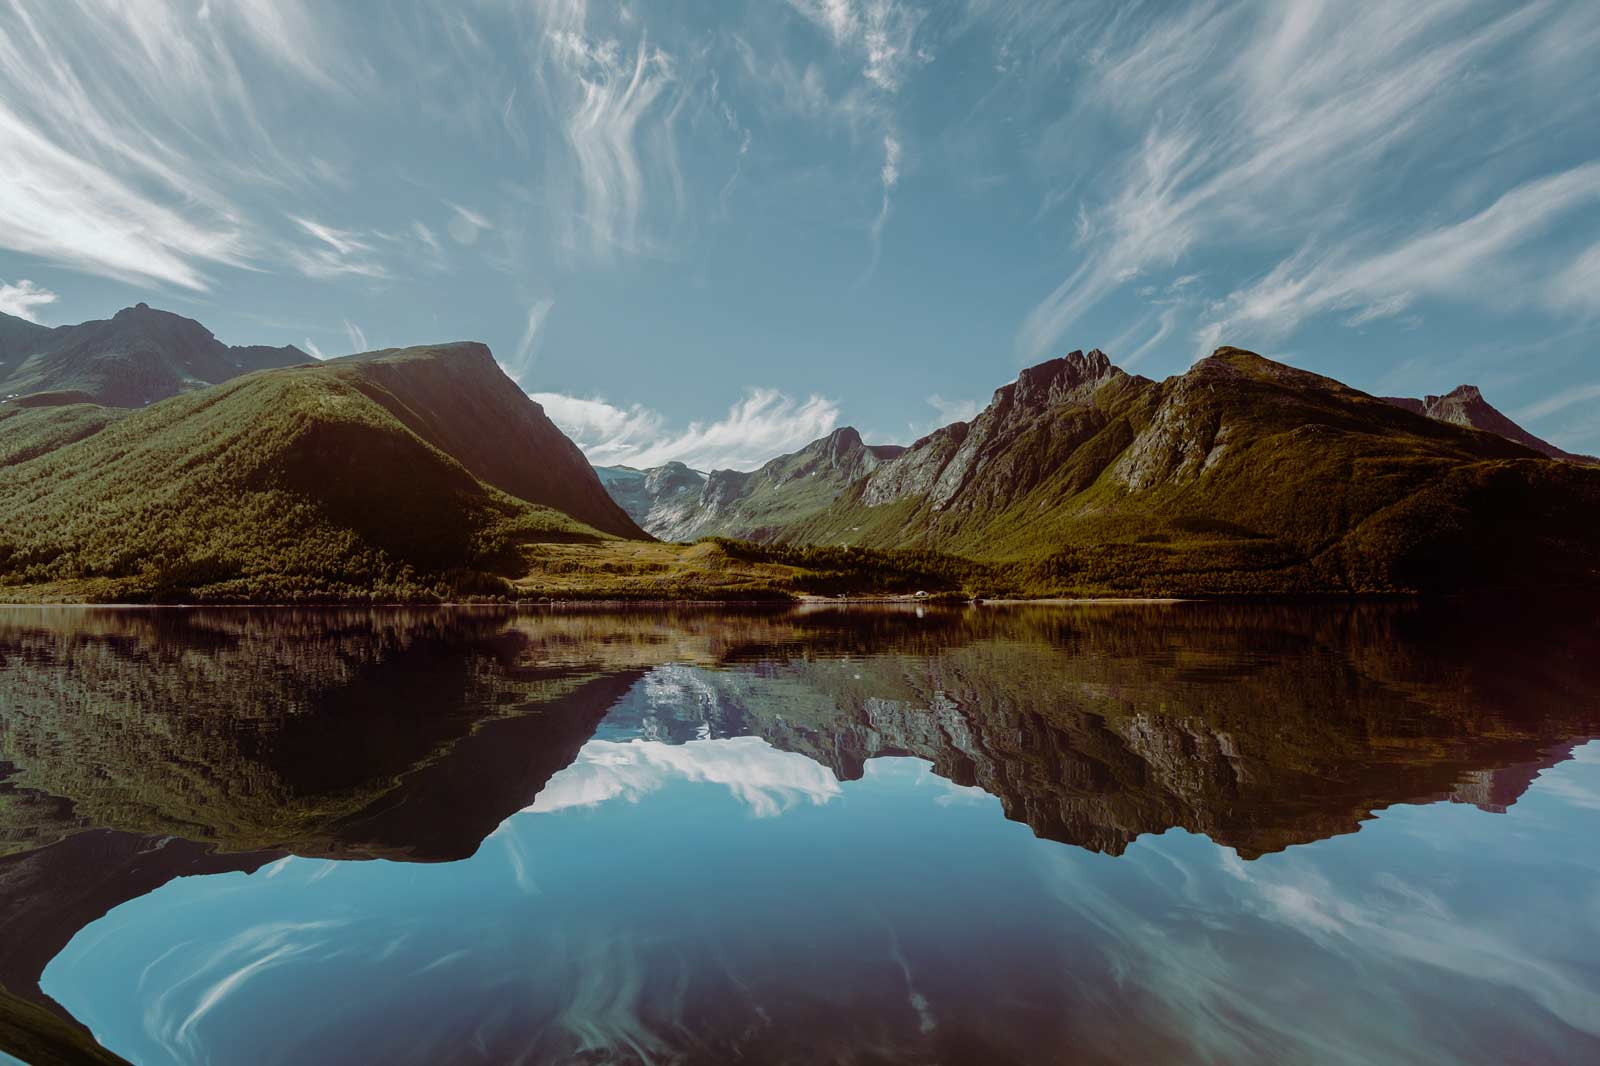
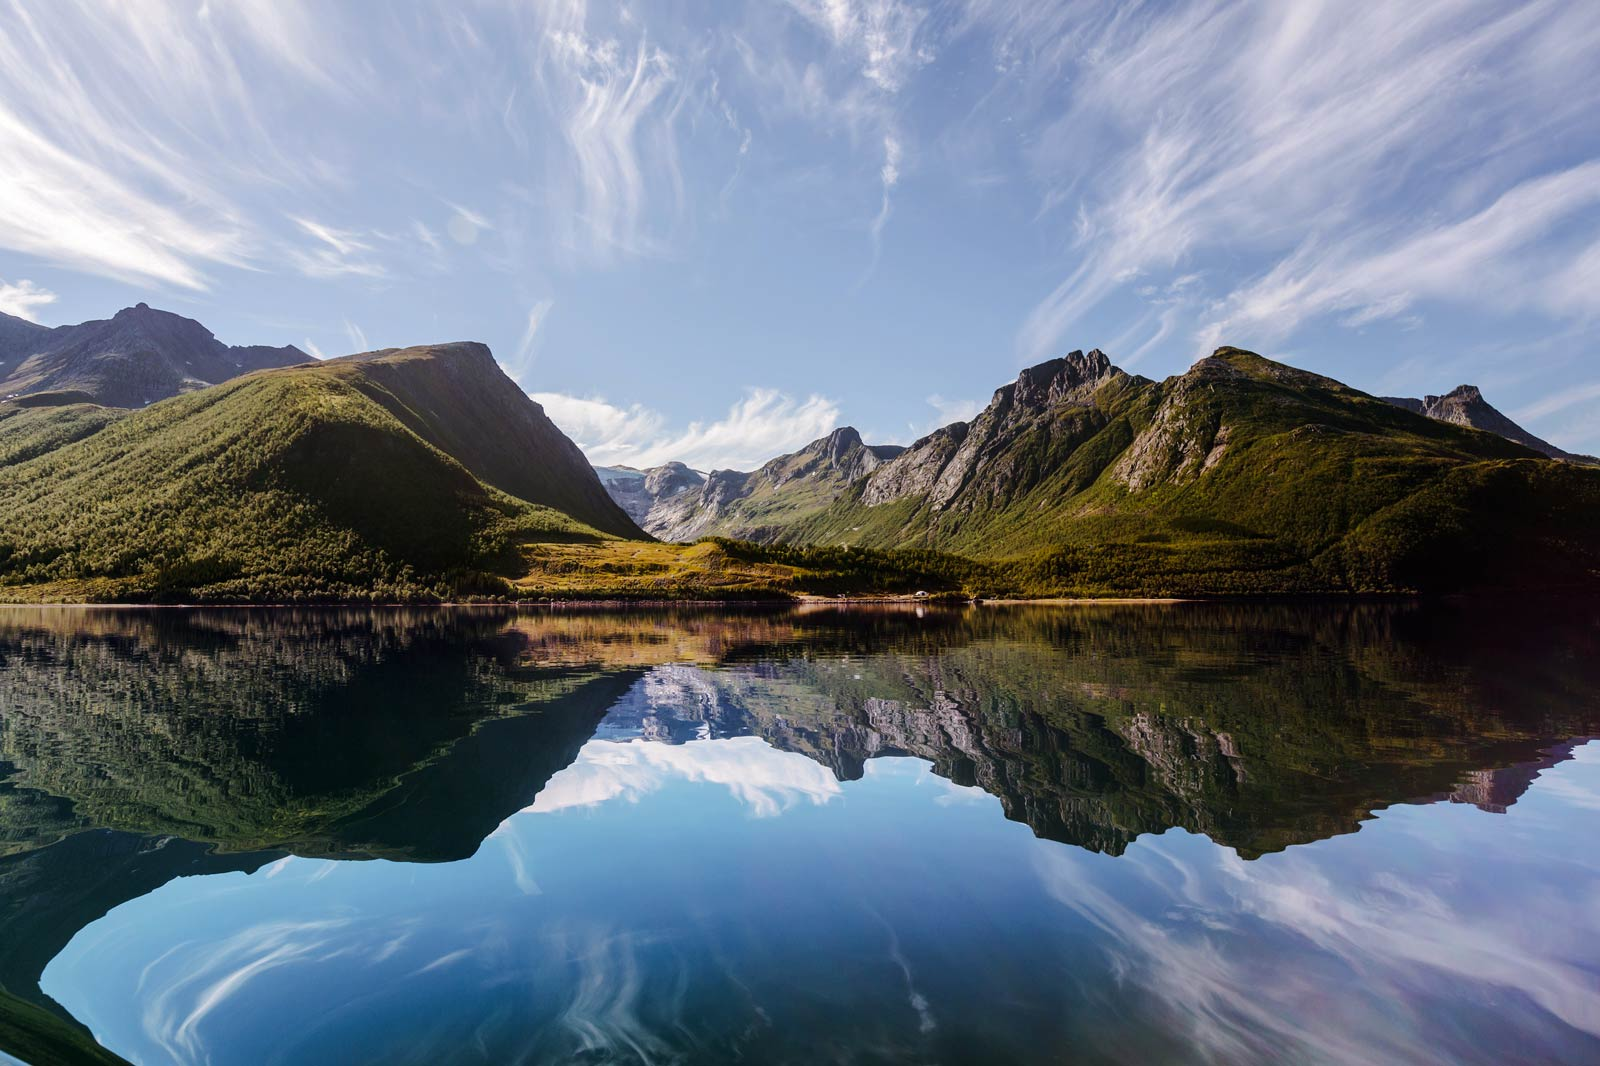
CSS + image changed
fixed height for notebooks
background image changed
Form css improved

diff --git a/public/css/sass/stylesheets/screen.css b/public/css/sass/stylesheets/screen.css
@@ -78,10 +78,14 @@ article, aside, details, figcaption, figure, footer, header, hgroup, menu, nav, 
 input[type="text"], input[type="password"], input[type="date"], input[type="datetime"], input[type="datetime-local"], input[type="month"], input[type="week"], input[type="email"], input[type="number"], input[type="search"], input[type="tel"], input[type="time"], input[type="url"], textarea {
   box-shadow: none;
   font-size: 1rem;
-  padding: 5px;
+  padding: 20px;
+}
+/* line 20, ../sass/screen.scss */
+input[type="text"]:focus, input[type="password"]:focus, input[type="date"]:focus, input[type="datetime"]:focus, input[type="datetime-local"]:focus, input[type="month"]:focus, input[type="week"]:focus, input[type="email"]:focus, input[type="number"]:focus, input[type="search"]:focus, input[type="tel"]:focus, input[type="time"]:focus, input[type="url"]:focus, textarea:focus {
+  background: #fff;
 }
 
-/* line 22, ../sass/screen.scss */
+/* line 25, ../sass/screen.scss */
 .button {
   background: none;
   border: 1px solid #fff;
@@ -91,20 +95,20 @@ input[type="text"], input[type="password"], input[type="date"], input[type="date
   transition: none;
   float: right;
 }
-/* line 30, ../sass/screen.scss */
+/* line 33, ../sass/screen.scss */
 .button:hover {
-  background: #333;
-  border-color: #333;
+  background: #fff;
+  color: #333;
 }
 
 /* login page */
-/* line 38, ../sass/screen.scss */
+/* line 41, ../sass/screen.scss */
 .login, .signup {
   padding: 80px 4% 20px;
 }
 
 /* Base CSS */
-/* line 45, ../sass/screen.scss */
+/* line 48, ../sass/screen.scss */
 html {
   background: url("../../../img/noted_bg4.jpg") center center no-repeat fixed;
   -webkit-background-size: cover;
@@ -114,7 +118,7 @@ html {
   font-size: 15px;
 }
 
-/* line 54, ../sass/screen.scss */
+/* line 57, ../sass/screen.scss */
 body {
   font-family: "Source Sans Pro",Helvetica, Arial, sans-serif;
   background: none;
@@ -123,7 +127,7 @@ body {
   color: #333;
 }
 
-/* line 62, ../sass/screen.scss */
+/* line 65, ../sass/screen.scss */
 h1, h2, h3, h4, h5 {
   font-weight: 900;
   letter-spacing: 0.2em;
@@ -131,18 +135,18 @@ h1, h2, h3, h4, h5 {
   text-transform: uppercase;
 }
 
-/* line 68, ../sass/screen.scss */
+/* line 71, ../sass/screen.scss */
 h1 {
   font-size: 3rem;
 }
 
-/* line 72, ../sass/screen.scss */
+/* line 75, ../sass/screen.scss */
 h3 {
   font-size: 2rem;
   padding: 10px 0;
 }
 
-/* line 77, ../sass/screen.scss */
+/* line 80, ../sass/screen.scss */
 h2 {
   font-size: 2.5rem;
   line-height: 4.2rem;
@@ -153,22 +157,21 @@ h2 {
 }
 
 /* notebooks, note page */
-/* line 88, ../sass/screen.scss */
+/* line 91, ../sass/screen.scss */
 [class*="column"] + [class*="column"]:last-child {
   float: left;
 }
 
-/* line 92, ../sass/screen.scss */
+/* line 95, ../sass/screen.scss */
 #main-content {
   min-height: 400px;
 }
-
-/* line 96, ../sass/screen.scss */
-.row {
+/* line 97, ../sass/screen.scss */
+#main-content > .row {
   padding: 0 10px;
 }
 
-/* line 100, ../sass/screen.scss */
+/* line 104, ../sass/screen.scss */
 .remove-notebook, .remove-note {
   display: none;
   position: absolute;
@@ -177,103 +180,117 @@ h2 {
   z-index: 100;
 }
 
-/* line 107, ../sass/screen.scss */
+/* line 111, ../sass/screen.scss */
 .notebook .whitebox {
-  height: 150px;
+  height: 130px;
   display: table;
   width: 100%;
 }
-/* line 111, ../sass/screen.scss */
+/* line 115, ../sass/screen.scss */
 .notebook .whitebox h3 {
   display: table-cell;
   vertical-align: middle;
   position: relative;
 }
 
-/* line 119, ../sass/screen.scss */
+/* line 123, ../sass/screen.scss */
 .notebook.column, .notebook.columns {
-  padding: 1px;
+  padding: 5px;
 }
 
-/* line 123, ../sass/screen.scss */
+/* line 127, ../sass/screen.scss */
+.note .whitebox {
+  background: rgba(255, 255, 255, 0.9);
+}
+
+/* line 131, ../sass/screen.scss */
 .whitebox {
   background-color: rgba(255, 255, 255, 0.8);
-  padding: 15px 10%;
+  padding: 30px 10%;
   margin-bottom: 1px;
 }
-/* line 127, ../sass/screen.scss */
+/* line 135, ../sass/screen.scss */
 .whitebox h3 {
   color: #333;
   font-size: 1.1rem;
   padding: 0;
 }
-/* line 132, ../sass/screen.scss */
+/* line 140, ../sass/screen.scss */
 .whitebox:hover .remove-notebook {
   display: inline;
 }
-/* line 135, ../sass/screen.scss */
+/* line 143, ../sass/screen.scss */
 .whitebox:hover {
   background: white;
 }
-/* line 138, ../sass/screen.scss */
+/* line 146, ../sass/screen.scss */
 .whitebox .note-content, .whitebox .note-title {
   border: none;
   box-shadow: none;
 }
-/* line 141, ../sass/screen.scss */
+/* line 149, ../sass/screen.scss */
 .whitebox .note-content:focus, .whitebox .note-title:focus {
   box-shadow: none;
 }
-/* line 144, ../sass/screen.scss */
+/* line 152, ../sass/screen.scss */
 .whitebox .note-content:not(:focus), .whitebox .note-title:not(:focus) {
   background: none;
 }
-/* line 148, ../sass/screen.scss */
+/* line 156, ../sass/screen.scss */
 .whitebox .note-title {
   font-weight: 900;
   font-size: 1.2em;
 }
 
-/* line 154, ../sass/screen.scss */
+/* line 162, ../sass/screen.scss */
 .note-list > div {
   width: 700px;
   max-width: 100%;
   margin: 0 auto;
 }
+/* line 166, ../sass/screen.scss */
+.note-list > div .note.columns {
+  margin-bottom: 20px;
+  padding: 0;
+}
 
-/* line 161, ../sass/screen.scss */
-footer p {
+/* line 172, ../sass/screen.scss */
+footer.row {
+  margin-top: 20px;
+}
+/* line 174, ../sass/screen.scss */
+footer.row p {
   color: #fff;
   margin: 0;
   border-top: #fff solid 1px;
   padding-top: 10px;
 }
 
-/* line 170, ../sass/screen.scss */
+/* line 183, ../sass/screen.scss */
 #modal input:not(.focus) {
   background: none;
 }
-/* line 173, ../sass/screen.scss */
+/* line 186, ../sass/screen.scss */
 #modal .button {
   color: #333;
   border-color: #333;
 }
-/* line 176, ../sass/screen.scss */
+/* line 189, ../sass/screen.scss */
 #modal .button:hover {
   color: #fff;
 }
-/* line 180, ../sass/screen.scss */
+/* line 193, ../sass/screen.scss */
 #modal h2 {
   color: #333;
 }
 
 /* note autosave */
-/* line 189, ../sass/screen.scss */
+/* line 202, ../sass/screen.scss */
 .loader {
   display: none;
 }
 
-/* line 193, ../sass/screen.scss */
+/* line 206, ../sass/screen.scss */
 .note-saved {
   display: none;
 }

diff --git a/public/css/sass/sass/screen.scss b/public/css/sass/sass/screen.scss
@@ -16,7 +16,10 @@
 input[type="text"], input[type="password"], input[type="date"], input[type="datetime"], input[type="datetime-local"], input[type="month"], input[type="week"], input[type="email"], input[type="number"], input[type="search"], input[type="tel"], input[type="time"], input[type="url"], textarea {
   box-shadow: none;
   font-size: 1rem;
-  padding: 5px;
+  padding: 20px;
+  &:focus{
+    background: #fff;
+  }
 }
 
 .button{
@@ -28,8 +31,8 @@ input[type="text"], input[type="password"], input[type="date"], input[type="date
   transition: none;
   float: right;
   &:hover{
-    background: #333;
-    border-color: #333;
+    background: #fff;
+    color: #333;
   }
 }
 
@@ -90,12 +93,13 @@ h2{
 }
 
 #main-content{
-  min-height:400px
+  min-height: 400px;
+  & > .row{
+    padding: 0 10px;
+  }  
 }
 
-.row{
-  padding: 0 10px;
-}
+
 
 .remove-notebook, .remove-note{
   display:none;
@@ -105,7 +109,7 @@ h2{
   z-index:100;
 }
 .notebook .whitebox{
-  height: 150px;
+  height: 130px;
   display: table;
   width: 100%;
   h3{
@@ -117,12 +121,16 @@ h2{
 }
 
 .notebook.column, .notebook.columns{
-  padding: 1px;
+  padding: 5px;
+}
+
+.note .whitebox{
+  background: rgba(255, 255, 255, 0.9);
 }
 
 .whitebox{
   background-color: rgba(255, 255, 255, 0.8);
-  padding: 15px 10%;
+  padding: 30px 10%;
   margin-bottom: 1px;
   h3{
     color: #333;
@@ -155,9 +163,14 @@ h2{
   width: 700px;
   max-width: 100%;
   margin: 0 auto;
+  .note.columns{
+    margin-bottom: 20px;
+    padding: 0;
+  }
 }
 
-footer{
+footer.row{
+  margin-top: 20px;
   p{
   color: #fff;
   margin: 0;
